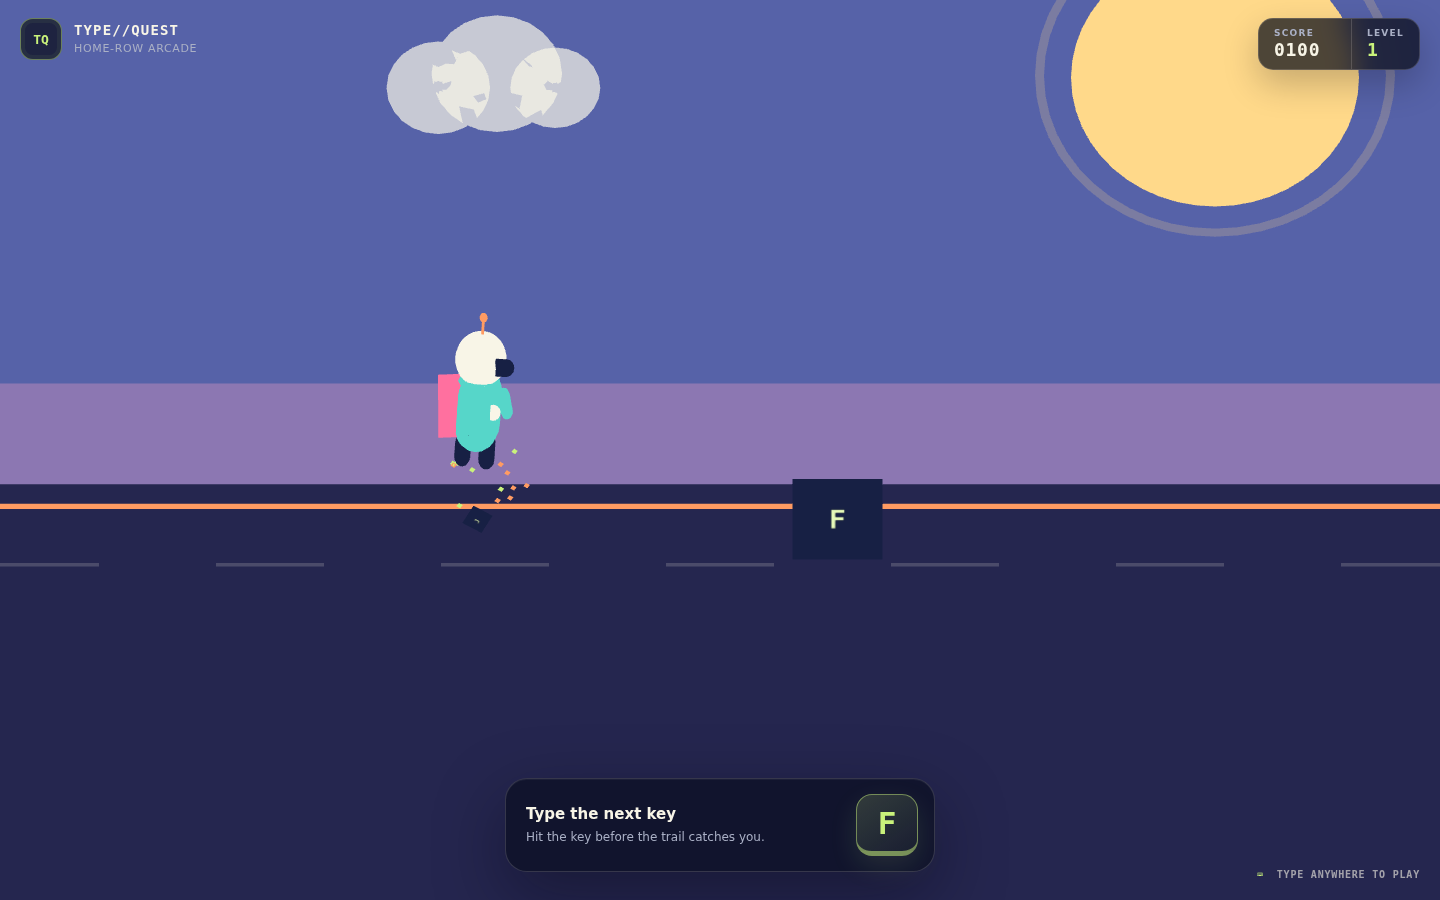
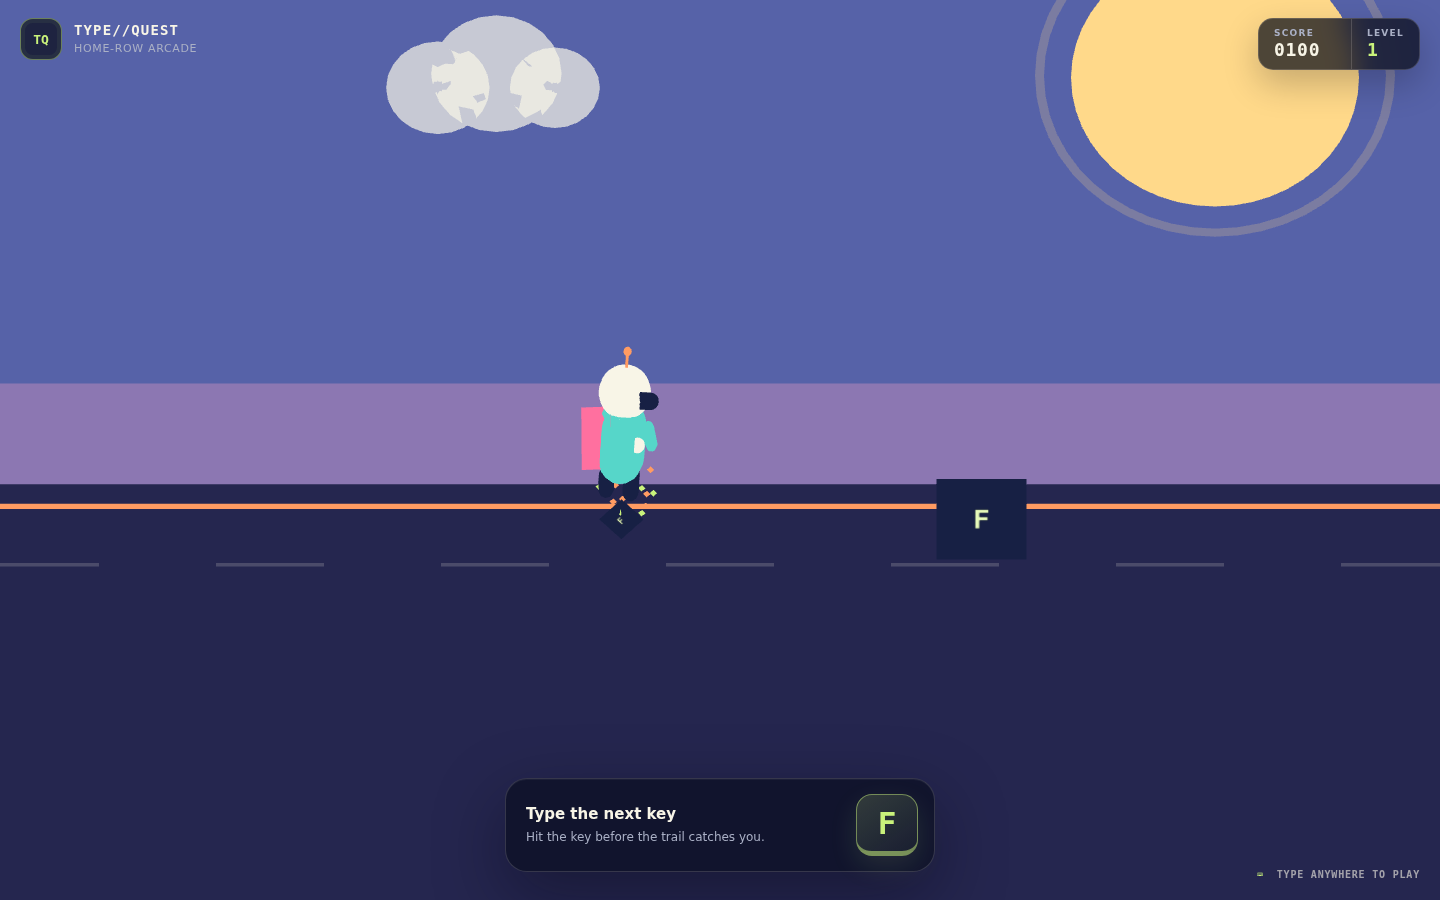
Make the runner reach and jump into blocks

diff --git a/src/js/managers/BackgroundManager.js b/src/js/managers/BackgroundManager.js
@@ -3,6 +3,8 @@ import * as THREE from 'three';
 export class BackgroundManager {
     constructor(scene) {
         this.scene = scene;
+        this.root = new THREE.Group();
+        this.scene.add(this.root);
         this.clouds = [];
         this.materials = {};
         this.scenePresets = [
@@ -24,14 +26,14 @@ export class BackgroundManager {
         this.materials.sky = skyMaterial;
         const sky = new THREE.Mesh(new THREE.PlaneGeometry(120, 32), skyMaterial);
         sky.position.set(0, 2, -9);
-        this.scene.add(sky);
+        this.root.add(sky);
 
         const sun = new THREE.Mesh(
             new THREE.CircleGeometry(3.2, 48),
             new THREE.MeshBasicMaterial({ color: 0xffd98a })
         );
         sun.position.set(11, 5.5, -7.5);
-        this.scene.add(sun);
+        this.root.add(sun);
 
         const halo = new THREE.Mesh(
             new THREE.RingGeometry(3.8, 4, 48),
@@ -39,7 +41,7 @@ export class BackgroundManager {
         );
         halo.position.copy(sun.position);
         halo.position.z = -7.6;
-        this.scene.add(halo);
+        this.root.add(halo);
     }
 
     createHills() {
@@ -50,7 +52,7 @@ export class BackgroundManager {
             hill.rotation.z = Math.PI;
             hill.position.set(x, -1.6, -6.5);
             hill.scale.y = 0.55;
-            this.scene.add(hill);
+            this.root.add(hill);
         });
     }
 
@@ -59,13 +61,13 @@ export class BackgroundManager {
         this.materials.ground = groundMaterial;
         const ground = new THREE.Mesh(new THREE.PlaneGeometry(120, 50), groundMaterial);
         ground.position.set(0, -27.85, -4);
-        this.scene.add(ground);
+        this.root.add(ground);
 
         const trailMaterial = new THREE.MeshBasicMaterial({ color: 0xff9b62 });
         this.materials.trail = trailMaterial;
         const trail = new THREE.Mesh(new THREE.PlaneGeometry(120, 0.13), trailMaterial);
         trail.position.set(0, -2.85, -2.9);
-        this.scene.add(trail);
+        this.root.add(trail);
 
         for (let x = -55; x < 60; x += 5) {
             const dash = new THREE.Mesh(
@@ -73,7 +75,7 @@ export class BackgroundManager {
                 new THREE.MeshBasicMaterial({ color: 0xf8f5e7, transparent: true, opacity: 0.18 })
             );
             dash.position.set(x, -4.25, -2.8);
-            this.scene.add(dash);
+            this.root.add(dash);
         }
     }
 
@@ -91,12 +93,13 @@ export class BackgroundManager {
                 cloud.add(puff);
             });
             cloud.position.set(x, 4 + (index % 2) * 2.2, -5.6);
-            this.scene.add(cloud);
+            this.root.add(cloud);
             this.clouds.push({ mesh: cloud, speed: 0.008 + index * 0.002 });
         });
     }
 
-    update() {
+    update(cameraX = 0) {
+        this.root.position.x = cameraX;
         this.clouds.forEach((cloud) => {
             cloud.mesh.position.x -= cloud.speed;
             if (cloud.mesh.position.x < -35) cloud.mesh.position.x = 35;

diff --git a/src/js/Game.js b/src/js/Game.js
@@ -207,14 +207,10 @@ export class Game {
         if (this.player) {
             this.player.update();
             
-            // Calculate the effective position considering scene movement
-            const effectivePosition = this.player.mesh.position.x + 
-                (Date.now() - this.lastTime) * this.scrollSpeed;
-            
-            // Check if player has fallen too far behind
-            if (effectivePosition < -15) {  // Adjusted threshold
+            const screenPosition = this.player.mesh.position.x - this.camera.position.x;
+            if (screenPosition < -15) {
                 this.gameOver();
-                return;  // Stop animation loop
+                return;
             }
             
             if (!this.isTypingCorrect) {
@@ -228,9 +224,6 @@ export class Game {
                 
                 // Move player with scene
                 this.player.mesh.position.x -= this.scrollSpeed;
-            } else {
-                // Add this else block to move player forward when typing correctly
-                this.player.moveForward();
             }
 
             // Update last time for next frame
@@ -247,7 +240,7 @@ export class Game {
             }
             
             // Remove boxes that are far behind
-            if (box.box.position.x < -20) {
+            if (box.box.position.x - this.camera.position.x < -20) {
                 this.scene.remove(box.box);
                 this.scene.remove(box.letter);
                 return false;
@@ -256,7 +249,7 @@ export class Game {
         });
 
         // Update background positions
-        this.backgroundManager.update();
+        this.backgroundManager.update(this.camera.position.x);
 
         this.renderer.render(this.scene, this.camera);
     }

diff --git a/src/js/managers/TypingManager.js b/src/js/managers/TypingManager.js
@@ -1,4 +1,4 @@
-import { findNextTarget, normalizeTypedKey } from '../gameRules.js';
+import { cameraXForRunner, findNextTarget, normalizeTypedKey } from '../gameRules.js';
 
 export class TypingManager {
   constructor(game) {
@@ -64,26 +64,25 @@ export class TypingManager {
 
     const startX = this.game.player.mesh.position.x;
     const targetX = target.box.position.x;
-    const advance = targetX - startX;
-    const dashX = Math.min(targetX, startX + 3.2);
+    const startCameraX = this.game.camera.position.x;
+    const startScreenX = startX - startCameraX;
     const startedAt = performance.now();
-    const duration = 260;
+    const duration = 420;
 
     const move = (now) => {
       const progress = Math.min((now - startedAt) / duration, 1);
       const eased = 1 - Math.pow(1 - progress, 3);
-      this.game.player.mesh.position.x = startX + (dashX - startX) * eased;
+      const playerX = startX + (targetX - startX) * eased;
+      this.game.player.mesh.position.x = playerX;
+      this.game.player.animateRun();
+      this.game.camera.position.x = cameraXForRunner(playerX, startCameraX, startScreenX);
 
       if (progress < 1) {
         requestAnimationFrame(move);
         return;
       }
 
-      this.game.boxes.forEach(({ box, letter }) => {
-        box.position.x -= advance;
-        letter.position.x -= advance;
-      });
-      this.game.player.mesh.position.x = startX;
+      this.game.player.mesh.position.x = targetX;
       this.game.player.jumpAndBreak(target);
       this.game.isTypingCorrect = false;
       this.isResolving = false;

diff --git a/test/gameRules.test.js b/test/gameRules.test.js
@@ -1,6 +1,7 @@
 import test from 'node:test';
 import assert from 'node:assert/strict';
 import {
+  cameraXForRunner,
   findNextTarget,
   lettersForLevel,
   levelForScore,
@@ -39,4 +40,10 @@ test('selects the nearest eligible target in queue order', () => {
   assert.equal(findNextTarget(boxes, 0), boxes[1]);
   assert.equal(findNextTarget(boxes, 8), boxes[2]);
   assert.equal(findNextTarget(boxes, 10), boxes[2]);
+});
+
+test('camera follows only after the runner advances visibly', () => {
+  assert.equal(cameraXForRunner(-3, 0, -5), 0);
+  assert.equal(cameraXForRunner(2, 0, -5), 3.8);
+  assert.ok(Math.abs(2 - cameraXForRunner(2, 0, -5) + 1.8) < 1e-9);
 });

diff --git a/src/js/gameRules.js b/src/js/gameRules.js
@@ -25,3 +25,7 @@ export function findNextTarget(boxes, playerX, maxDistance = 15.1) {
     return !completed && distance > 0 && distance <= maxDistance;
   }) ?? null;
 }
+
+export function cameraXForRunner(playerX, startCameraX, startScreenX, visibleAdvance = 3.2) {
+  return Math.max(startCameraX, playerX - (startScreenX + visibleAdvance));
+}

diff --git a/src/js/entities/Player.js b/src/js/entities/Player.js
@@ -100,6 +100,10 @@ export class Player {
 
     moveForward() {
         this.mesh.position.x += this.forwardSpeed;
+        this.animateRun();
+    }
+
+    animateRun() {
         this.walkCycle += 0.22;
         const swing = Math.sin(this.walkCycle) * 0.35;
         this.mesh.children.forEach((child) => {
